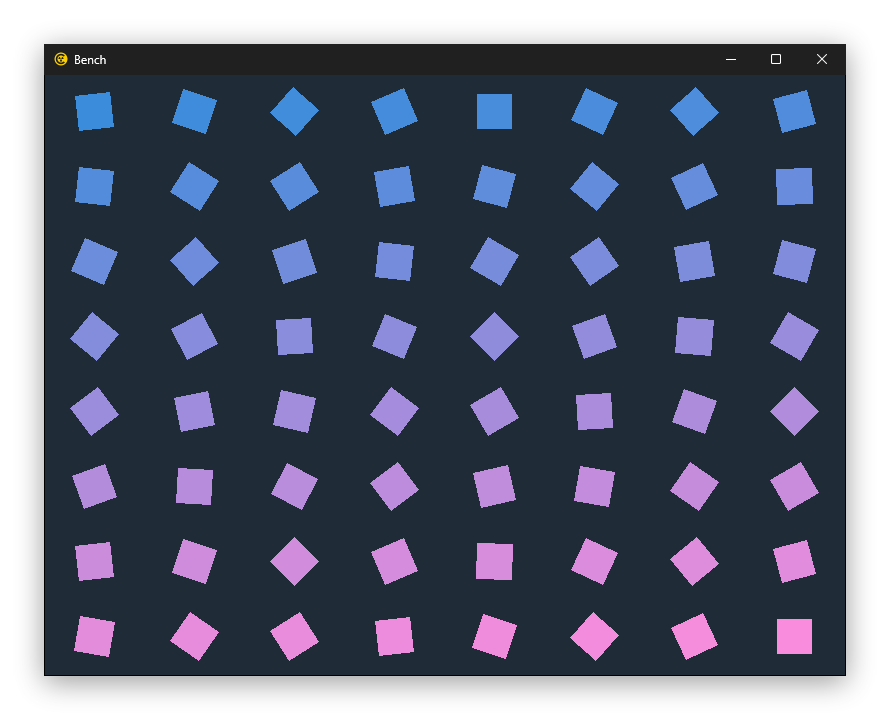
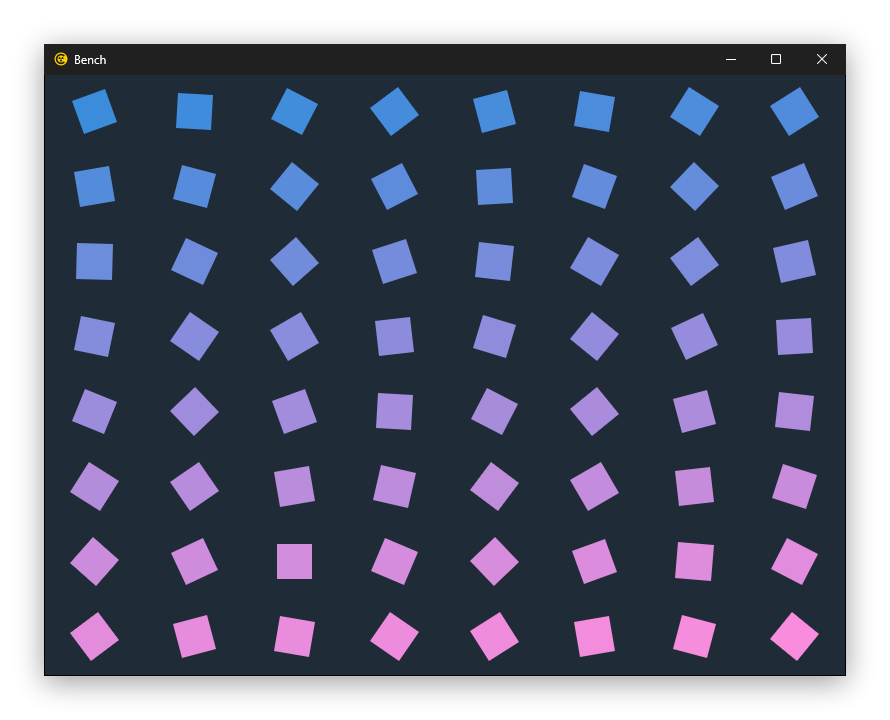
Fill anti-aliasing on GPU renderers again, with .anti_aliasing to say otherwise
Fill anti-aliasing went off on every renderer when rounded fills became
masks, which left the bench's rotated boxes jagged under --renderer
direct3d11. A GPU renderer anti-aliases fills again; the software one,
the default, still does not. .anti_aliasing (REAKTOR_AA_AUTO, _ON, _OFF)
and --aa <auto|on|off> decide, and the Diagnostics page reads it back.
The showcase's pixels do not change on either renderer; the bench
screenshot is retaken.

diff --git a/core/render/draw.c b/core/render/draw.c
@@ -1,4 +1,5 @@
 #include "internal.h"
+#include "reaktor/launch.h"
 #include "locale.h"
 
 static const int g_font_px[FONT_STEPS] =
@@ -375,6 +376,20 @@ mask_rounded_fills(App *app)
             ctx->memory.allocated;
 }
 
+int
+reaktor_aa_lines(const App *app)
+{
+    return app->aa_mode != REAKTOR_AA_OFF && !(app->renderer_is_sw && app->sw_noaa);
+}
+
+/* Left to a GPU renderer by default; rounded fills are masks either way. */
+int
+reaktor_aa_fills(const App *app)
+{
+    return app->aa_mode == REAKTOR_AA_ON ||
+           (app->aa_mode == REAKTOR_AA_AUTO && !app->renderer_is_sw);
+}
+
 void
 reaktor_render(App *app)
 {
@@ -382,9 +397,9 @@ reaktor_render(App *app)
                            app->clear.a);
     SDL_RenderClear(app->ren);
     mask_rounded_fills(app);
-    nk_sdl_render_ex(app->ctx, NK_ANTI_ALIASING_OFF,
-                     app->aa && !(app->renderer_is_sw && app->sw_noaa)
-                     ? NK_ANTI_ALIASING_ON : NK_ANTI_ALIASING_OFF);
+    nk_sdl_render_ex(app->ctx,
+                     reaktor_aa_fills(app) ? NK_ANTI_ALIASING_ON : NK_ANTI_ALIASING_OFF,
+                     reaktor_aa_lines(app) ? NK_ANTI_ALIASING_ON : NK_ANTI_ALIASING_OFF);
 }
 
 nk_size

diff --git a/runtime/app.c b/runtime/app.c
@@ -258,6 +258,12 @@ take_flags(App *app, int argc, char **argv)
         const char *v = (i + 1 < argc) ? argv[i + 1] : NULL;
 
         if (v && SDL_strcmp(a, "--shot") == 0)       { app->shot_path = v; i++; }
+        else if (v && SDL_strcmp(a, "--aa") == 0) {
+            g_launch.anti_aliasing = SDL_strcmp(v, "on") == 0  ? REAKTOR_AA_ON
+                                   : SDL_strcmp(v, "off") == 0 ? REAKTOR_AA_OFF
+                                   : REAKTOR_AA_AUTO;
+            i++;
+        }
         else if (v && SDL_strcmp(a, "--console") == 0) {
             g_launch.console = SDL_strcmp(v, "debug") == 0  ? REAKTOR_CONSOLE_DEBUG
                              : SDL_strcmp(v, "parent") == 0 ? REAKTOR_CONSOLE_PARENT
@@ -773,7 +779,7 @@ app_init(void **appstate, int argc, char *argv[])
     reaktor_a11y_platform_init(reader_activate, reader_focus, app);
 
     app->vsync_on = SDL_SetRenderVSync(app->ren, 1) ? 1 : 0;
-    app->aa = 1;
+    app->aa_mode = (int)g_launch.anti_aliasing;
     app->redraw_always = 0;
 
     SDL_strlcpy(app->frame_rate, "waitevent", sizeof(app->frame_rate));

diff --git a/core/internal.h b/core/internal.h
@@ -119,7 +119,7 @@ struct App {
     const char *tip;
 
     char render_mode[32];
-    int  vsync_on, aa, redraw_always;
+    int  vsync_on, aa_mode, redraw_always;
 
     char frame_rate[16];
     char drag_rate[16];
@@ -272,6 +272,8 @@ enum { HOLD_NONE, HOLD_ALL, HOLD_FRESH };
 int  focus_key(App *app, const SDL_Event *event);
 void focus_ring(App *app, struct nk_context *ctx, struct nk_command_buffer *cv);
 void reaktor_overlay(App *app, struct nk_context *ctx, int ring);
+int  reaktor_aa_lines(const App *app);
+int  reaktor_aa_fills(const App *app);
 
 enum {
     REAKTOR_WHY_INPUT  = 1u << 0,

diff --git a/include/reaktor/launch.h b/include/reaktor/launch.h
@@ -26,6 +26,12 @@ typedef enum reaktor_theme {
     REAKTOR_THEME_DARK
 } reaktor_theme;
 
+typedef enum reaktor_aa {
+    REAKTOR_AA_AUTO = 0,
+    REAKTOR_AA_ON,
+    REAKTOR_AA_OFF
+} reaktor_aa;
+
 typedef enum reaktor_quit_reason {
     REAKTOR_QUIT_WINDOW = 0,
     REAKTOR_QUIT_APP,
@@ -77,6 +83,7 @@ typedef struct reaktor_launch {
     const char          *log;
     reaktor_inspector_spec inspector;
     reaktor_theme        theme;
+    reaktor_aa           anti_aliasing;
     const char          *confirm_close;
 
     reaktor_asset        css[REAKTOR_LAYER_MAX];

diff --git a/core/ui/widgets.c b/core/ui/widgets.c
@@ -1266,8 +1266,9 @@ reaktor_diagnostics(App *app, reaktor_diag *out)
         out->font = drawn[0] ? line : app->font_status;
     }
     out->vsync      = app->vsync_on;
-    out->aa = !app->aa ? "off"
-            : app->renderer_is_sw && app->sw_noaa ? "off (software renderer)"
+    out->aa = app->aa_mode == REAKTOR_AA_OFF ? "off"
+            : !reaktor_aa_lines(app) ? "off (software renderer)"
+            : reaktor_aa_fills(app) ? "strokes and fills"
             : "strokes only";
     out->dark       = app->dark;
     out->sheets     = app->sheets;

diff --git a/runtime/window.c b/runtime/window.c
@@ -187,7 +187,7 @@ open_window(const reaktor_window *spec, const struct nk_rect *popup)
     SDL_SetRenderVSync(a->ren, 1);
     a->renderer_is_sw = SDL_strcmp(SDL_GetRendererName(a->ren), "software") == 0;
     a->sw_noaa        = m->sw_noaa;
-    a->aa             = 1;
+    a->aa_mode        = m->aa_mode;
     a->font_face      = m->font_face;
     a->font_face_bold = m->font_face_bold;
     for (i = 0; i < m->icon_dir_count; i++) a->icon_dirs[i] = m->icon_dirs[i];

diff --git a/docs/DOCUMENTATION.md b/docs/DOCUMENTATION.md
@@ -179,6 +179,11 @@ and category, appended; `--log <path>` overrides it.
 terminal or a console of its own, plus SDL's debug log). A redirected stream
 stays redirected. Ctrl+C reaches the app only from a console it owns.
 
+**Anti-aliasing.** `.anti_aliasing` is `REAKTOR_AA_AUTO` (strokes on every
+renderer, fills on a GPU one; the default), `_ON` (fills on the software
+renderer too, which it pays for) or `_OFF`. `--aa <auto|on|off>` overrides it.
+Rounded fills are masks and look the same under each.
+
 **Assets.** `.css` adds up to four sheets after Water.css and reaktor.css
 (`.no_reaktor_css` drops reaktor.css), `.font` and `.font_bold` replace
 Aileron (which stands in for one that cannot be read, or that is cut short or
@@ -1078,6 +1083,7 @@ removes them from `argv` before the application sees it:
 | `--lang <code>` | Open in that catalog: `en`, `pl`, `ja` |
 | `--font-fallback <path>` | A font for the Text module, before the application's; repeatable |
 | `--renderer <name>` | `software` (default), `auto`, or a driver name |
+| `--aa <auto\|on\|off>` | Override `.anti_aliasing` |
 | `--video <name>` | SDL's video driver: `x11`, `wayland`, `dummy` |
 | `--popups inline` | Menus inside the window, not in windows of their own |
 | `--console <none\|parent\|debug>` | Override `.console` |
@@ -1147,8 +1153,9 @@ about. `--renderer auto` lets SDL choose; a driver name pins one.
   software renderer turns two triangles into a fill and truncates position and
   size apart at fractional scales.
 - **A one-pixel stroke is two half-alpha rows**, so borders are fills:
-  `reaktor_edge_round`. Fill anti-aliasing is off on every renderer, so rounded
-  fills are masks: `reaktor_fill_round`, and each rounded fill Nuklear draws
+  `reaktor_edge_round`. Fill anti-aliasing is off on the software renderer
+  and on under a GPU one unless `.anti_aliasing` says otherwise; rounded fills
+  do not depend on it, as they are masks: `reaktor_fill_round`, and each rounded fill Nuklear draws
   itself — a scrollbar, a tree's header, a combo, a menu item — is swapped for
   masks before the frame is drawn.
 

diff --git a/CLAUDE.md b/CLAUDE.md
@@ -61,7 +61,8 @@ regression oracle for every layout or style change.
   corners, and its runs cut from the mask's middle texels, which hold a
   straight band so a run is sharp and as thick as its corners at any scale.
 - **A rounded fill is jagged unless it is a mask.** Fill anti-aliasing is off
-  on every renderer, so a fill with corners goes through `reaktor_fill_round`,
+  on the software renderer, the default (`.anti_aliasing` and `--aa` decide;
+  a GPU renderer has it on), so a fill with corners goes through `reaktor_fill_round`,
   and `reaktor_render` swaps each one Nuklear drew itself for masks, relinking
   the built command list — whose end is wherever a `next` reaches
   `ctx->memory.allocated`.
